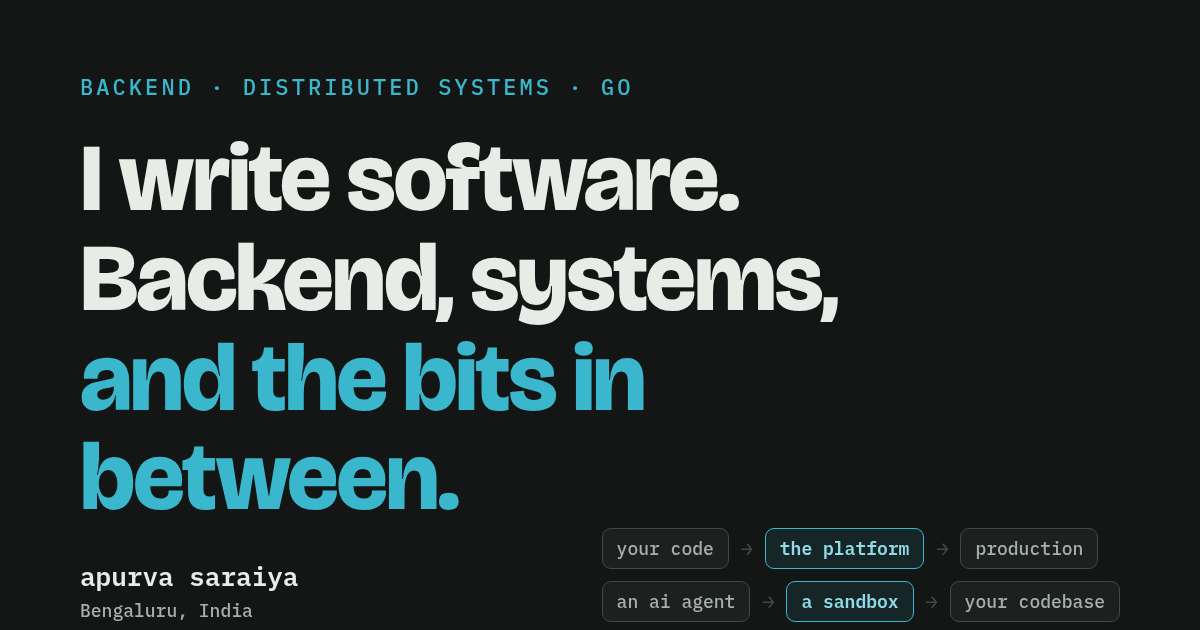
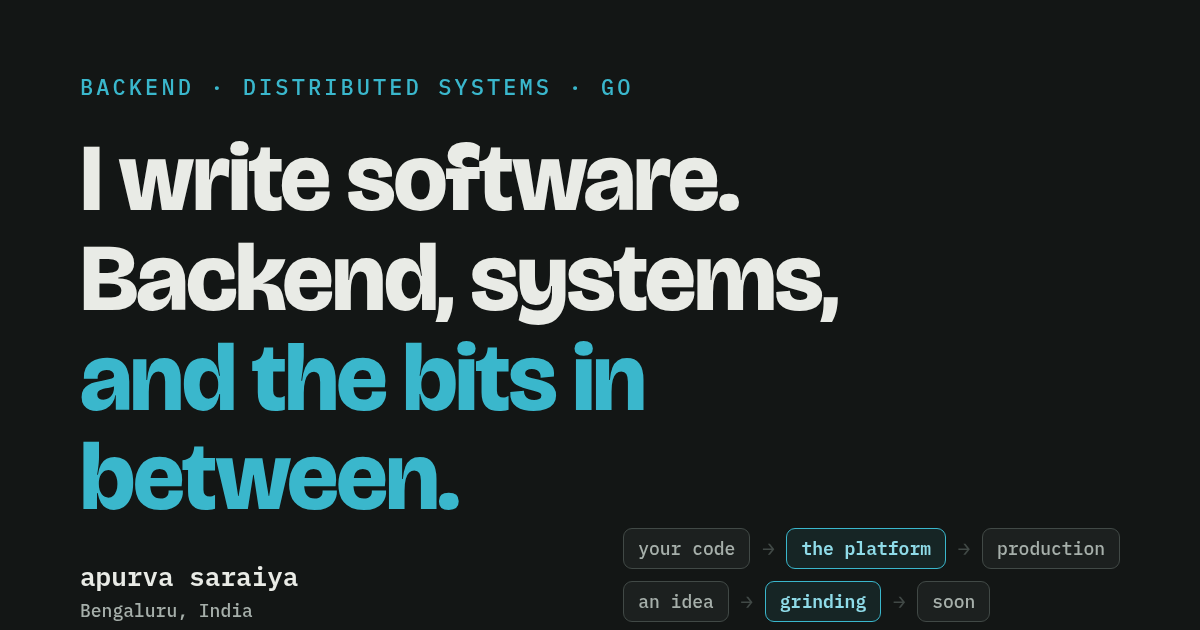
Show real work and a grinding rail, not configs or agent infra.
CopyIT and shortly are the selected work; now is a single panel for
what's coming; the second rail is idea → grinding → soon.

Changed region(s): [[0.4933, 0.8444, 0.925, 0.9048], [0.4933, 0.9349, 0.925, 0.9651]]

diff --git a/scripts/og.html b/scripts/og.html
@@ -112,11 +112,11 @@
         <span class="node">production</span>
       </span>
       <span class="rail">
-        <span class="node">an ai agent</span>
+        <span class="node">an idea</span>
         <span class="arrow">&rarr;</span>
-        <span class="node node-mine">a sandbox</span>
+        <span class="node node-mine">grinding</span>
         <span class="arrow">&rarr;</span>
-        <span class="node">your codebase</span>
+        <span class="node">soon</span>
       </span>
     </div>
   </div>

diff --git a/src/styles/global.css b/src/styles/global.css
@@ -49,6 +49,7 @@ html {
   scroll-behavior: smooth;
   -webkit-font-smoothing: antialiased;
   text-rendering: optimizeLegibility;
+  background: var(--paper);
 }
 
 body {
